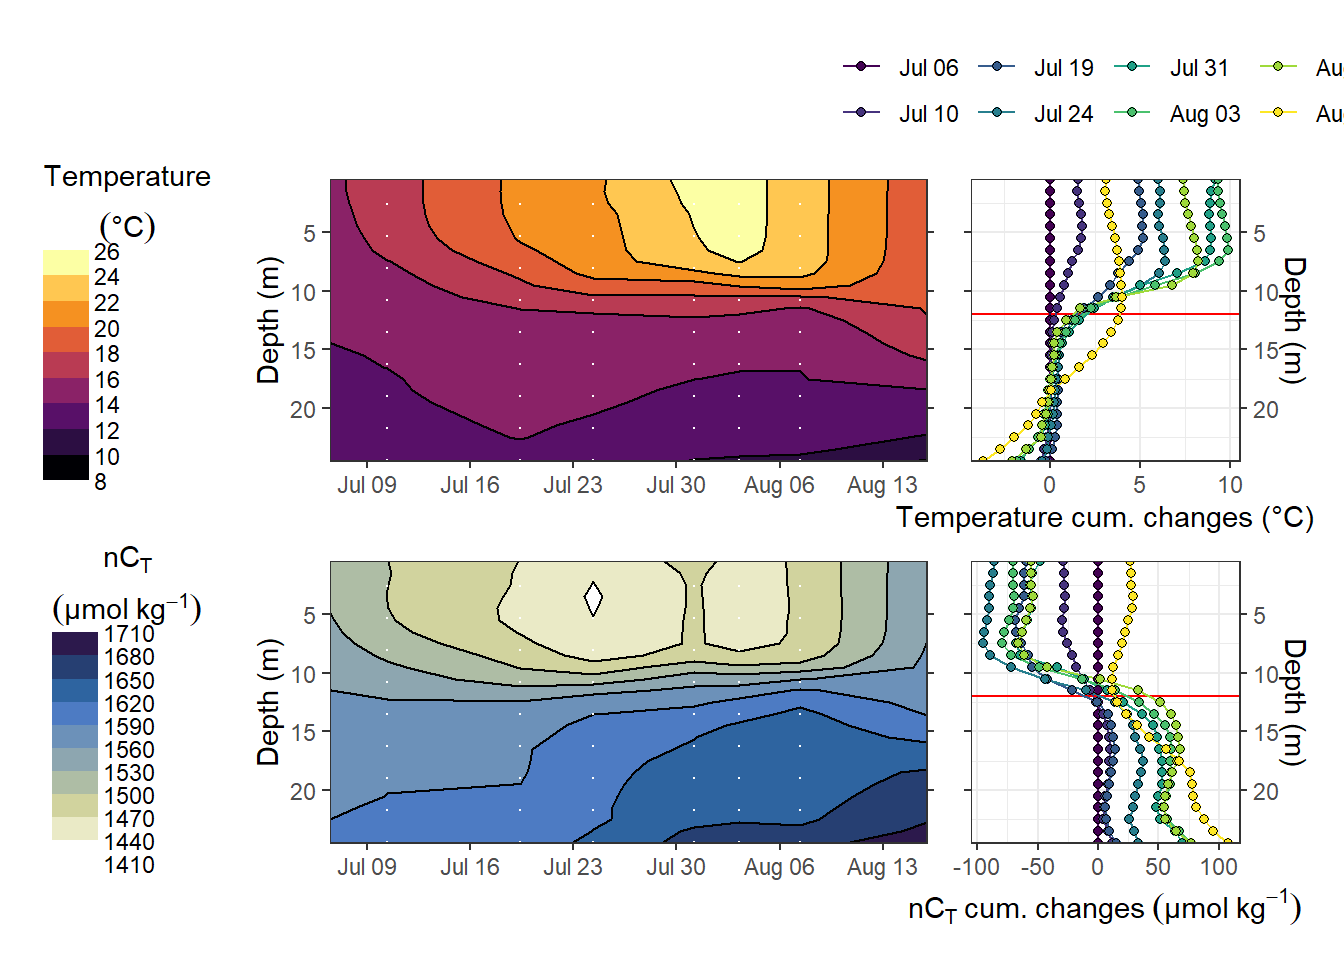
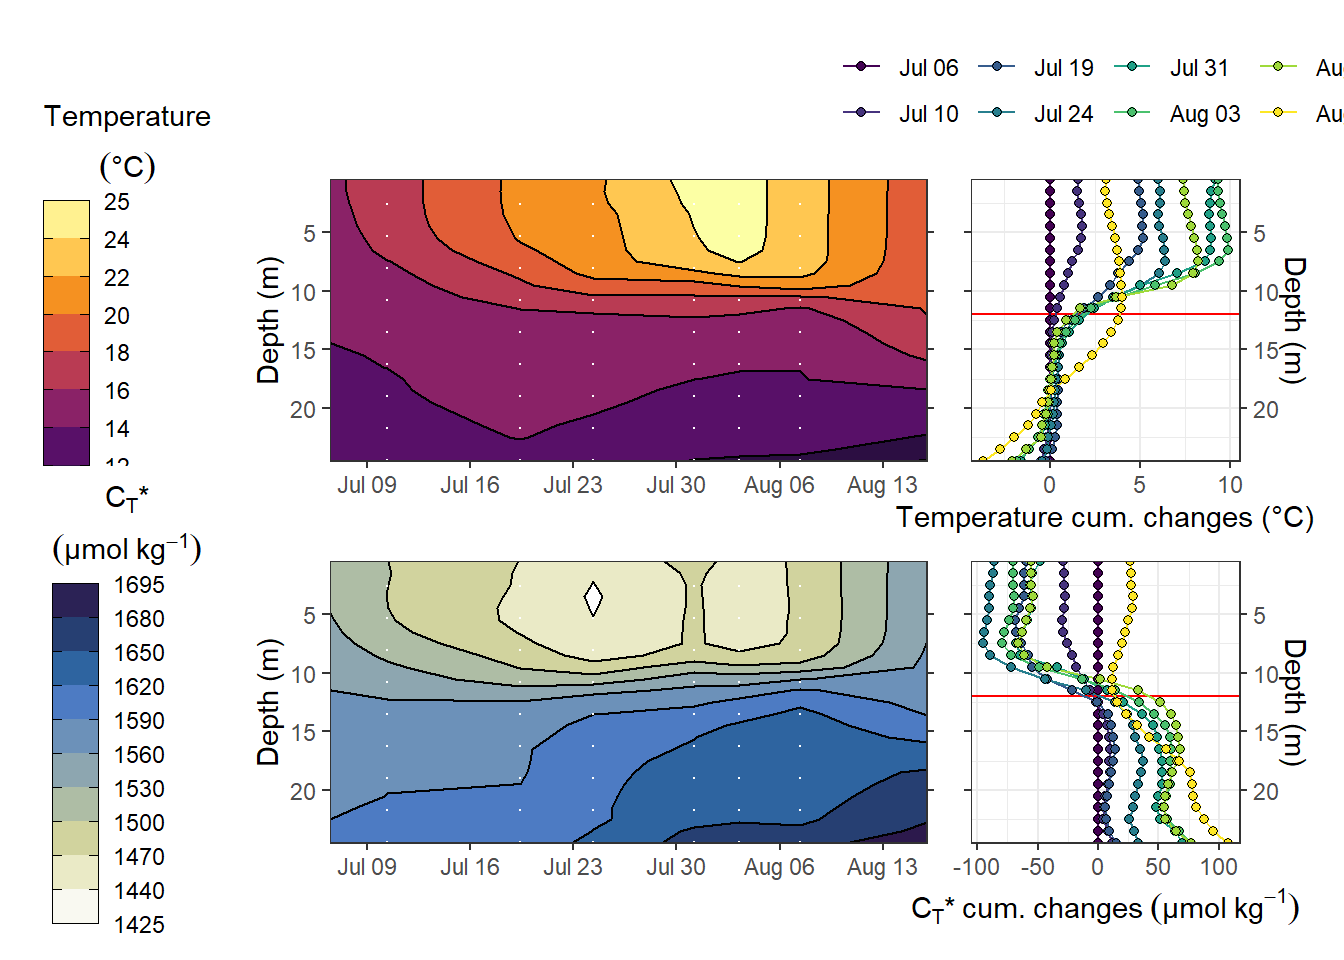
Build site.

Changed region(s): [[0.0312, 0.5625, 0.1562, 0.9688], [0.0312, 0.0938, 0.1562, 0.5312], [0.6562, 0.9375, 0.9688, 0.9688]]

diff --git a/docs/CT_dynamics.html b/docs/CT_dynamics.html
@@ -553,16 +553,16 @@ This reproducible <a href="http://rmarkdown.rstudio.com">R Markdown</a> analysis
 <div class="panel panel-default">
 <div class="panel-heading">
 <p class="panel-title">
-<a data-toggle="collapse" data-parent="#workflowr-checks" href="#strongRepositoryversionstrongahrefhttpsgithubcomjensdanielmuellerBloomSailtreedd5b61f890fe883f21b296fd34a6a1b6cebbc4c3targetblankdd5b61fa"> <span class="glyphicon glyphicon-ok text-success" aria-hidden="true"></span> <strong>Repository version:</strong> <a href="https://github.com/jens-daniel-mueller/BloomSail/tree/dd5b61f890fe883f21b296fd34a6a1b6cebbc4c3" target="_blank">dd5b61f</a> </a>
+<a data-toggle="collapse" data-parent="#workflowr-checks" href="#strongRepositoryversionstrongahrefhttpsgithubcomjensdanielmuellerBloomSailtree56716e9521efd0ebf90c4cb30ade1d402874193dtargetblank56716e9a"> <span class="glyphicon glyphicon-ok text-success" aria-hidden="true"></span> <strong>Repository version:</strong> <a href="https://github.com/jens-daniel-mueller/BloomSail/tree/56716e9521efd0ebf90c4cb30ade1d402874193d" target="_blank">56716e9</a> </a>
 </p>
 </div>
[2 lines of base64/hex data omitted]
 <div class="panel-body">
 <p>
 Great! You are using Git for version control. Tracking code development and connecting the code version to the results is critical for reproducibility.
 </p>
 <p>
-The results in this page were generated with repository version <a href="https://github.com/jens-daniel-mueller/BloomSail/tree/dd5b61f890fe883f21b296fd34a6a1b6cebbc4c3" target="_blank">dd5b61f</a>. See the <em>Past versions</em> tab to see a history of the changes made to the R Markdown and HTML files.
+The results in this page were generated with repository version <a href="https://github.com/jens-daniel-mueller/BloomSail/tree/56716e9521efd0ebf90c4cb30ade1d402874193d" target="_blank">56716e9</a>. See the <em>Past versions</em> tab to see a history of the changes made to the R Markdown and HTML files.
 </p>
 <p>
 Note that you need to be careful to ensure that all relevant files for the analysis have been committed to Git prior to generating the results (you can use <code>wflow_publish</code> or <code>wflow_git_commit</code>). workflowr only checks the R Markdown file, but you know if there are other scripts or data files that it depends on. Below is the status of the Git repository when the results were generated:
@@ -581,6 +581,14 @@ Untracked files:
     Untracked:  output/Plots/Figures_publication/Appendix/CT_entrainment.png
     Untracked:  output/Plots/Figures_publication/Appendix/nCT_sensitivity_to_AT.pdf
     Untracked:  output/Plots/Figures_publication/Appendix/nCT_sensitivity_to_AT.png
+    Untracked:  output/Plots/Figures_publication/Article/Fig_1.pdf
+    Untracked:  output/Plots/Figures_publication/Article/Fig_1.png
+    Untracked:  output/Plots/Figures_publication/Article/Fig_2.pdf
+    Untracked:  output/Plots/Figures_publication/Article/Fig_2.png
+    Untracked:  output/Plots/Figures_publication/Article/Fig_3.pdf
+    Untracked:  output/Plots/Figures_publication/Article/Fig_3.png
+    Untracked:  output/Plots/Figures_publication/Article/Fig_4.pdf
+    Untracked:  output/Plots/Figures_publication/Article/Fig_4.png
 
 </code></pre>
 <p>
@@ -619,6 +627,40 @@ Message
 </tr>
 </thead>
 <tbody>
+<tr>
+<td>
+Rmd
+</td>
+<td>
+<a href="https://github.com/jens-daniel-mueller/BloomSail/blob/56716e9521efd0ebf90c4cb30ade1d402874193d/analysis/CT_dynamics.Rmd" target="_blank">56716e9</a>
+</td>
+<td>
+jens-daniel-mueller
+</td>
+<td>
+2020-10-30
+</td>
+<td>
+updated hovmoeller
+</td>
+</tr>
+<tr>
+<td>
+html
+</td>
+<td>
+<a href="https://rawcdn.githack.com/jens-daniel-mueller/BloomSail/bc4d01cc37d7a85c602966f3cdef7f93623e4126/docs/CT_dynamics.html" target="_blank">bc4d01c</a>
+</td>
+<td>
+jens-daniel-mueller
+</td>
+<td>
+2020-10-30
+</td>
+<td>
+Build site.
+</td>
+</tr>
 <tr>
 <td>
 Rmd
@@ -4486,14 +4528,13 @@ p_pCO2 &lt;-
     axis.ticks.y = element_blank()
   )
 
+
 p_nCT &lt;-
   tm_profiles %&gt;%
   ggplot(aes(nCT, dep, col = ID, group = interaction(station, ID))) +
   geom_path() +
   scale_y_reverse(expand = c(0, 0)) +
-  labs(x = expression(nC[T] ~ (µmol ~ kg ^ {
-    -1
-  }))) +
+  labs(x = expression(paste(C[T], &quot;*&quot;, ~ (µmol ~ kg ^ {-1})))) +
   scale_color_viridis_d(labels = cruise_dates$date_ID) +
   theme(
     legend.title = element_blank(),
@@ -4507,7 +4548,7 @@ p_tem + p_pCO2 + p_nCT</code></pre>
 <pre class="r"><code>ggsave(
   here::here(
     &quot;output/Plots/Figures_publication/article&quot;,
-    &quot;profiles_all.pdf&quot;
+    &quot;Fig_3.pdf&quot;
   ),
   width = 180,
   height = 80,
@@ -4518,7 +4559,7 @@ p_tem + p_pCO2 + p_nCT</code></pre>
 ggsave(
   here::here(
     &quot;output/Plots/Figures_publication/article&quot;,
-    &quot;profiles_all.png&quot;
+    &quot;Fig_3.png&quot;
   ),
   width = 180,
   height = 80,
